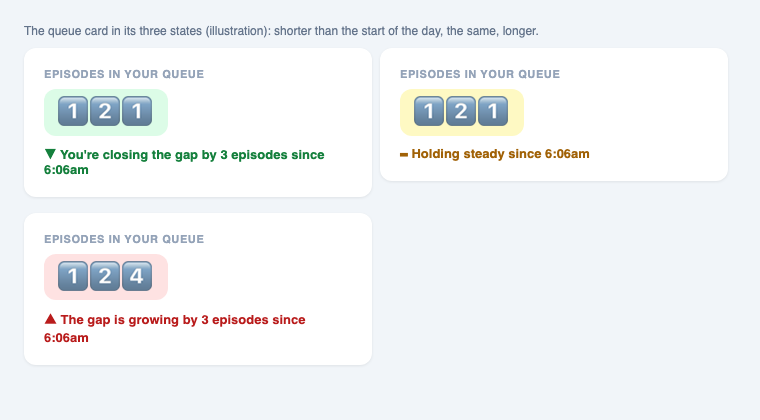
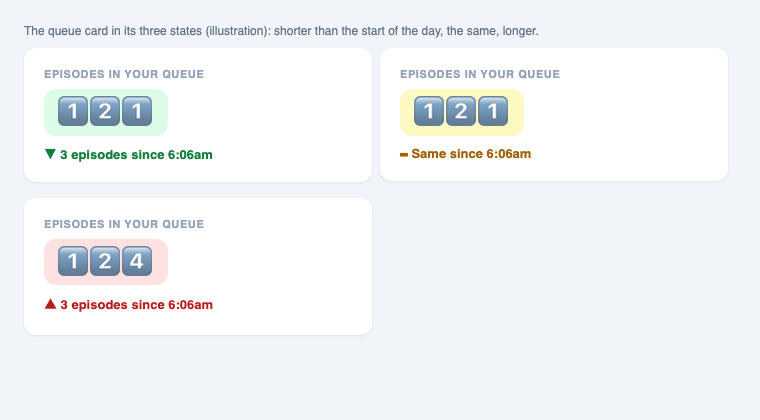
Flow web report: shorter line under the queue count

Changed region(s): [[0.0605, 0.5262, 0.4237, 0.8357], [0.0605, 0.3405, 0.4237, 0.4333], [0.5447, 0.3405, 0.7868, 0.4024]]

diff --git a/tests/test_flow.py b/tests/test_flow.py
@@ -304,11 +304,11 @@ class StoryTests(unittest.TestCase):
             return flow.queue_card(snap("2026-10-16T09:00", queue_count=start),
                                    snap("2026-10-16T18:00", queue_count=end), NY)
         self.assertIn("#dcfce7", card(124, 121))
-        self.assertIn("▼ You&#x27;re closing the gap by 3 episodes since 9:00am", card(124, 121))
+        self.assertIn("▼ 3 episodes since 9:00am", card(124, 121))
         self.assertIn("#fef9c3", card(121, 121))
-        self.assertIn("Holding steady since 9:00am", card(121, 121))
+        self.assertIn("Same since 9:00am", card(121, 121))
         self.assertIn("#fee2e2", card(121, 124))
-        self.assertIn("▲ The gap is growing by 3 episodes since 9:00am", card(121, 124))
+        self.assertIn("▲ 3 episodes since 9:00am", card(121, 124))
 
     def test_labels_have_names_and_approximate_ones_are_marked(self):
         self.assertEqual(flow.label_name({"label": "dash-end"}), "🏁 Dash end")

diff --git a/flow.py b/flow.py
@@ -590,9 +590,9 @@ def queue_card(qs, qe, tz=None):
     since = f"since {clock(qs, tz)}"
     n = abs(delta)
     noun = f"{n} episode" + ("" if n == 1 else "s")
-    sub = {"better": f"{arrow} You're closing the gap by {noun} {since}",
-           "same": f"{arrow} Holding steady {since}",
-           "worse": f"{arrow} The gap is growing by {noun} {since}"}[tone]
+    sub = {"better": f"{arrow} {noun} {since}",
+           "same": f"{arrow} Same {since}",
+           "worse": f"{arrow} {noun} {since}"}[tone]
     value_html = (f'<span style="display:inline-block;background:{bg};border-radius:12px;'
                   f'padding:6px 14px;font-size:30px;line-height:1.15;letter-spacing:2px;">'
                   f'{keycaps(qe["queue_count"])}</span>')
